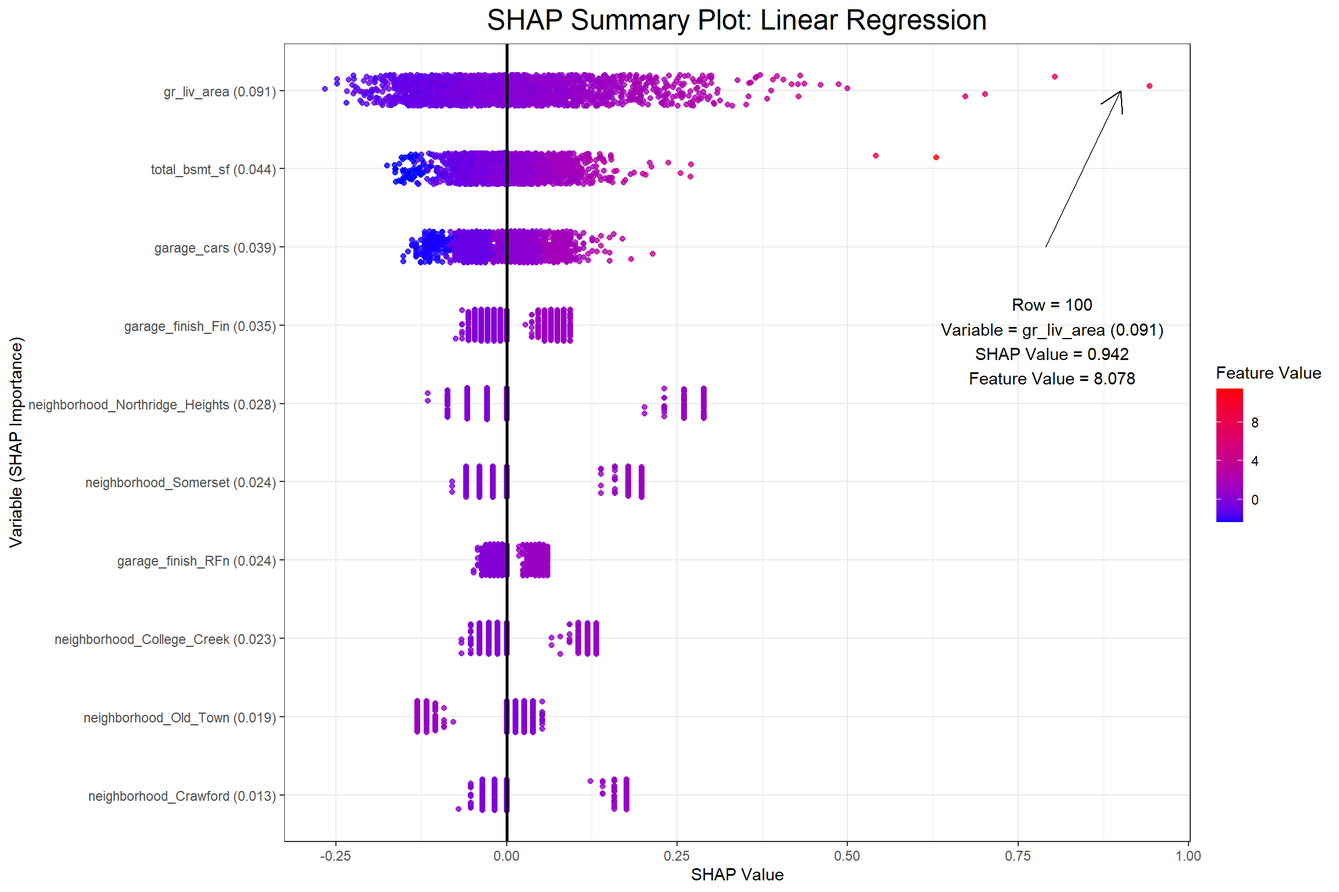
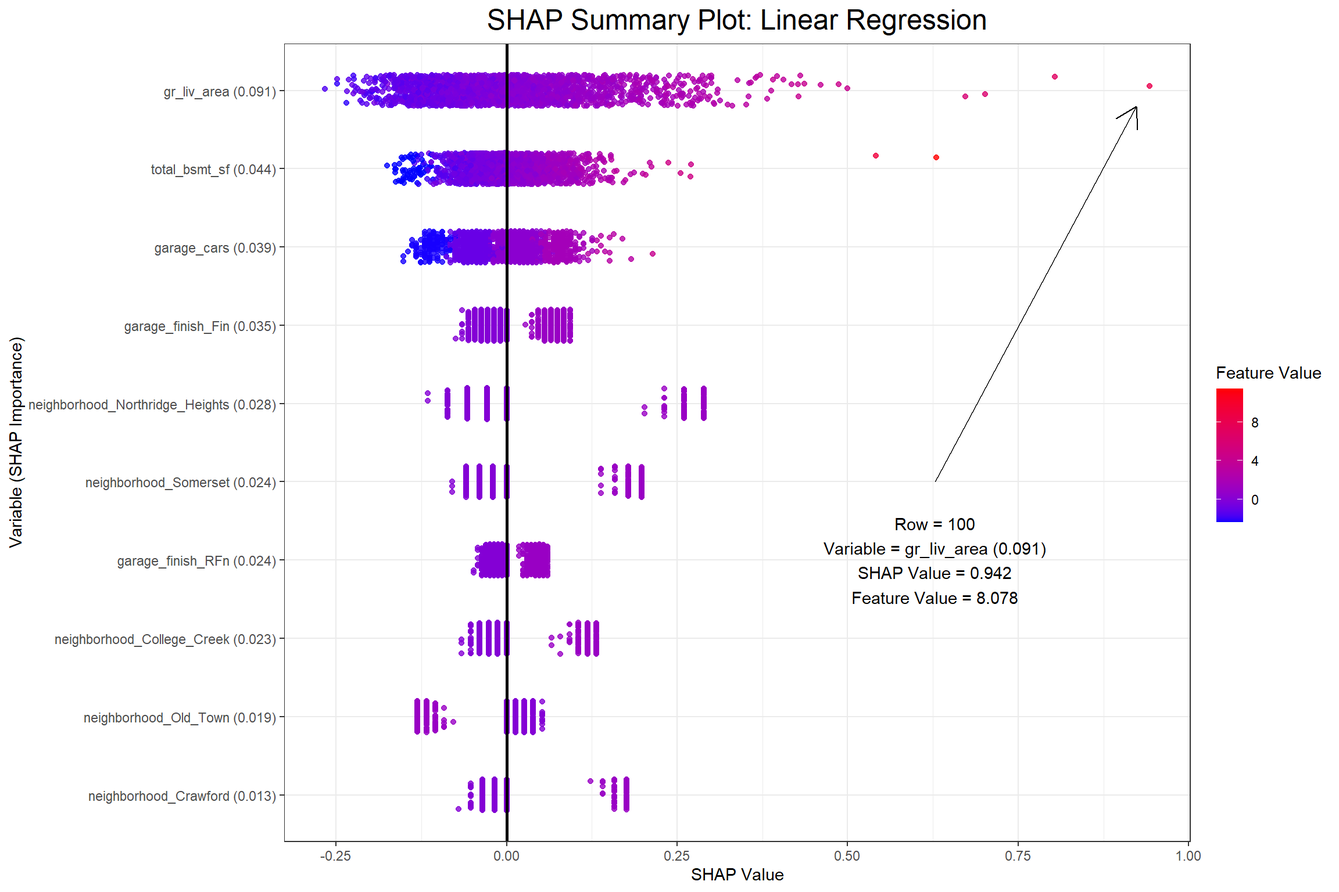
Built site for gh-pages

Changed region(s): [[0.625, 0.5625, 0.7812, 0.6875], [0.7188, 0.3125, 0.875, 0.4375]]

diff --git a/posts/20210829-open-blackbox-tidy/open-blackbox-tidy.html b/posts/20210829-open-blackbox-tidy/open-blackbox-tidy.html
@@ -927,25 +927,36 @@ pre > code.sourceCode > span > a:first-child::before { text-decoration: underlin
 <div class="cell">
 <details class="code-fold">
 <summary>Code</summary>
-<div class="code-copy-outer-scaffold"><div class="sourceCode cell-code" id="cb22"><pre class="sourceCode numberSource r number-lines code-with-copy"><code class="sourceCode r"><span id="cb22-1"><a href="#cb22-1"></a><span class="co"># Generate the SHAP summary plot with an annotation for the outermost point</span></span>
-<span id="cb22-2"><a href="#cb22-2"></a><span class="fu">set.seed</span>(<span class="dv">23</span>)</span>
-<span id="cb22-3"><a href="#cb22-3"></a>shap_summary_plots<span class="sc">$</span>xgb <span class="sc">+</span> </span>
-<span id="cb22-4"><a href="#cb22-4"></a>  <span class="fu">annotate</span>(</span>
-<span id="cb22-5"><a href="#cb22-5"></a>    <span class="at">geom =</span> <span class="st">"segment"</span>,</span>
-<span id="cb22-6"><a href="#cb22-6"></a>    <span class="at">arrow =</span> <span class="fu">arrow</span>(<span class="at">length =</span> <span class="fu">unit</span>(<span class="fl">0.03</span>, <span class="st">"npc"</span>)),</span>
-<span id="cb22-7"><a href="#cb22-7"></a>    <span class="at">color =</span> <span class="st">"black"</span>,</span>
-<span id="cb22-8"><a href="#cb22-8"></a>    <span class="at">x =</span> <span class="fl">0.15</span>,</span>
-<span id="cb22-9"><a href="#cb22-9"></a>    <span class="at">xend =</span> <span class="fl">0.17</span>,</span>
-<span id="cb22-10"><a href="#cb22-10"></a>    <span class="at">y =</span> <span class="fl">6.2</span>,</span>
-<span id="cb22-11"><a href="#cb22-11"></a>    <span class="at">yend =</span> <span class="fl">9.8</span></span>
-<span id="cb22-12"><a href="#cb22-12"></a>  ) <span class="sc">+</span></span>
-<span id="cb22-13"><a href="#cb22-13"></a>  <span class="fu">annotate</span>(</span>
-<span id="cb22-14"><a href="#cb22-14"></a>    <span class="at">geom =</span> <span class="st">"text"</span>, </span>
-<span id="cb22-15"><a href="#cb22-15"></a>    <span class="at">x =</span> <span class="fl">0.15</span>, </span>
-<span id="cb22-16"><a href="#cb22-16"></a>    <span class="at">y =</span> <span class="dv">5</span>,</span>
-<span id="cb22-17"><a href="#cb22-17"></a>    <span class="at">label =</span> point_annotation_xgb, </span>
-<span id="cb22-18"><a href="#cb22-18"></a>    <span class="at">hjust =</span> <span class="st">"center"</span></span>
-<span id="cb22-19"><a href="#cb22-19"></a>  )</span></code></pre></div><button title="Copy to Clipboard" class="code-copy-button"><i class="bi"></i></button></div>
+<div class="code-copy-outer-scaffold"><div class="sourceCode cell-code" id="cb22"><pre class="sourceCode numberSource r number-lines code-with-copy"><code class="sourceCode r"><span id="cb22-1"><a href="#cb22-1"></a><span class="co"># Get the maximum of the x_summary</span></span>
+<span id="cb22-2"><a href="#cb22-2"></a>point_x_lim_max <span class="ot">&lt;-</span> shap_summary_plots <span class="sc">|&gt;</span></span>
+<span id="cb22-3"><a href="#cb22-3"></a>  <span class="fu">map</span>(</span>
+<span id="cb22-4"><a href="#cb22-4"></a>    \(x) {</span>
+<span id="cb22-5"><a href="#cb22-5"></a>      <span class="fu">ggplot_build</span>(x) <span class="sc">|&gt;</span></span>
+<span id="cb22-6"><a href="#cb22-6"></a>        <span class="fu">pluck</span>(<span class="st">"layout"</span>, <span class="st">"panel_scales_x"</span>, <span class="dv">1</span>) <span class="sc">|&gt;</span></span>
+<span id="cb22-7"><a href="#cb22-7"></a>        (\(x) x<span class="sc">$</span><span class="fu">get_limits</span>()[<span class="dv">2</span>])()</span>
+<span id="cb22-8"><a href="#cb22-8"></a>    }</span>
+<span id="cb22-9"><a href="#cb22-9"></a>  )</span>
+<span id="cb22-10"><a href="#cb22-10"></a>  </span>
+<span id="cb22-11"><a href="#cb22-11"></a></span>
+<span id="cb22-12"><a href="#cb22-12"></a><span class="co"># Generate the SHAP summary plot with an annotation for the outermost point</span></span>
+<span id="cb22-13"><a href="#cb22-13"></a><span class="fu">set.seed</span>(<span class="dv">23</span>)</span>
+<span id="cb22-14"><a href="#cb22-14"></a>shap_summary_plots<span class="sc">$</span>xgb <span class="sc">+</span> </span>
+<span id="cb22-15"><a href="#cb22-15"></a>  <span class="fu">annotate</span>(</span>
+<span id="cb22-16"><a href="#cb22-16"></a>    <span class="at">geom =</span> <span class="st">"segment"</span>,</span>
+<span id="cb22-17"><a href="#cb22-17"></a>    <span class="at">arrow =</span> <span class="fu">arrow</span>(<span class="at">length =</span> <span class="fu">unit</span>(<span class="fl">0.03</span>, <span class="st">"npc"</span>)),</span>
+<span id="cb22-18"><a href="#cb22-18"></a>    <span class="at">color =</span> <span class="st">"black"</span>,</span>
+<span id="cb22-19"><a href="#cb22-19"></a>    <span class="at">x =</span> point_x_lim_max<span class="sc">$</span>xgb <span class="sc">/</span> <span class="dv">2</span>,</span>
+<span id="cb22-20"><a href="#cb22-20"></a>    <span class="at">xend =</span> point_dat_xgb<span class="sc">$</span>shap_value <span class="sc">*</span> .<span class="dv">98</span>,</span>
+<span id="cb22-21"><a href="#cb22-21"></a>    <span class="at">y =</span> <span class="dv">6</span>,</span>
+<span id="cb22-22"><a href="#cb22-22"></a>    <span class="at">yend =</span> <span class="fl">9.8</span></span>
+<span id="cb22-23"><a href="#cb22-23"></a>  ) <span class="sc">+</span></span>
+<span id="cb22-24"><a href="#cb22-24"></a>  <span class="fu">annotate</span>(</span>
+<span id="cb22-25"><a href="#cb22-25"></a>    <span class="at">geom =</span> <span class="st">"text"</span>, </span>
+<span id="cb22-26"><a href="#cb22-26"></a>    <span class="at">x =</span> point_x_lim_max<span class="sc">$</span>xgb <span class="sc">/</span> <span class="dv">2</span>, </span>
+<span id="cb22-27"><a href="#cb22-27"></a>    <span class="at">y =</span> <span class="dv">5</span>,</span>
+<span id="cb22-28"><a href="#cb22-28"></a>    <span class="at">label =</span> point_annotation_xgb, </span>
+<span id="cb22-29"><a href="#cb22-29"></a>    <span class="at">hjust =</span> <span class="st">"center"</span></span>
+<span id="cb22-30"><a href="#cb22-30"></a>  )</span></code></pre></div><button title="Copy to Clipboard" class="code-copy-button"><i class="bi"></i></button></div>
 </details>
 <div class="cell-output-display">
 <div>
@@ -961,17 +972,22 @@ pre > code.sourceCode > span > a:first-child::before { text-decoration: underlin
 <div class="code-copy-outer-scaffold"><div class="sourceCode cell-code" id="cb23"><pre class="sourceCode numberSource r number-lines code-with-copy"><code class="sourceCode r"><span id="cb23-1"><a href="#cb23-1"></a><span class="co"># Generate the SHAP summary plot with an annotation for the outermost point</span></span>
 <span id="cb23-2"><a href="#cb23-2"></a><span class="fu">set.seed</span>(<span class="dv">23</span>)</span>
 <span id="cb23-3"><a href="#cb23-3"></a>shap_summary_plots<span class="sc">$</span>lm <span class="sc">+</span> </span>
-<span id="cb23-4"><a href="#cb23-4"></a>  <span class="fu">geom_segment</span>(</span>
-<span id="cb23-5"><a href="#cb23-5"></a>    <span class="fu">aes</span>(<span class="at">x =</span> <span class="fl">0.79</span>, <span class="at">xend =</span> <span class="fl">0.9</span>, <span class="at">y =</span> <span class="dv">8</span>, <span class="at">yend =</span> <span class="dv">10</span>), </span>
-<span id="cb23-6"><a href="#cb23-6"></a>    <span class="at">color =</span> <span class="st">"black"</span>,</span>
-<span id="cb23-7"><a href="#cb23-7"></a>    <span class="at">arrow =</span> <span class="fu">arrow</span>(<span class="at">length =</span> <span class="fu">unit</span>(<span class="fl">0.03</span>, <span class="st">"npc"</span>))</span>
-<span id="cb23-8"><a href="#cb23-8"></a>  ) <span class="sc">+</span></span>
-<span id="cb23-9"><a href="#cb23-9"></a>  <span class="fu">annotate</span>(</span>
-<span id="cb23-10"><a href="#cb23-10"></a>    <span class="at">geom =</span> <span class="st">"text"</span>, </span>
-<span id="cb23-11"><a href="#cb23-11"></a>    <span class="at">x =</span> <span class="fl">0.8</span>, </span>
-<span id="cb23-12"><a href="#cb23-12"></a>    <span class="at">y =</span> <span class="fl">6.8</span>, <span class="at">label =</span> point_annotation_lm, </span>
-<span id="cb23-13"><a href="#cb23-13"></a>    <span class="at">hjust =</span> <span class="st">"center"</span></span>
-<span id="cb23-14"><a href="#cb23-14"></a>  )</span></code></pre></div><button title="Copy to Clipboard" class="code-copy-button"><i class="bi"></i></button></div>
+<span id="cb23-4"><a href="#cb23-4"></a>  <span class="fu">annotate</span>(</span>
+<span id="cb23-5"><a href="#cb23-5"></a>    <span class="at">geom =</span> <span class="st">"segment"</span>,</span>
+<span id="cb23-6"><a href="#cb23-6"></a>    <span class="at">arrow =</span> <span class="fu">arrow</span>(<span class="at">length =</span> <span class="fu">unit</span>(<span class="fl">0.03</span>, <span class="st">"npc"</span>)),</span>
+<span id="cb23-7"><a href="#cb23-7"></a>    <span class="at">color =</span> <span class="st">"black"</span>,</span>
+<span id="cb23-8"><a href="#cb23-8"></a>    <span class="at">x =</span> point_x_lim_max<span class="sc">$</span>lm <span class="sc">*</span> (<span class="dv">2</span><span class="sc">/</span><span class="dv">3</span>),</span>
+<span id="cb23-9"><a href="#cb23-9"></a>    <span class="at">xend =</span> point_dat_lm<span class="sc">$</span>shap_value <span class="sc">*</span> .<span class="dv">98</span>,</span>
+<span id="cb23-10"><a href="#cb23-10"></a>    <span class="at">y =</span> <span class="dv">5</span>,</span>
+<span id="cb23-11"><a href="#cb23-11"></a>    <span class="at">yend =</span> <span class="fl">9.8</span></span>
+<span id="cb23-12"><a href="#cb23-12"></a>  ) <span class="sc">+</span></span>
+<span id="cb23-13"><a href="#cb23-13"></a>  <span class="fu">annotate</span>(</span>
+<span id="cb23-14"><a href="#cb23-14"></a>    <span class="at">geom =</span> <span class="st">"text"</span>, </span>
+<span id="cb23-15"><a href="#cb23-15"></a>    <span class="at">x =</span> point_x_lim_max<span class="sc">$</span>lm <span class="sc">*</span> (<span class="dv">2</span><span class="sc">/</span><span class="dv">3</span>), </span>
+<span id="cb23-16"><a href="#cb23-16"></a>    <span class="at">y =</span> <span class="dv">4</span>,</span>
+<span id="cb23-17"><a href="#cb23-17"></a>    <span class="at">label =</span> point_annotation_lm, </span>
+<span id="cb23-18"><a href="#cb23-18"></a>    <span class="at">hjust =</span> <span class="st">"center"</span></span>
+<span id="cb23-19"><a href="#cb23-19"></a>  )</span></code></pre></div><button title="Copy to Clipboard" class="code-copy-button"><i class="bi"></i></button></div>
 </details>
 <div class="cell-output-display">
 <div>
@@ -2153,98 +2169,114 @@ pre > code.sourceCode > span > a:first-child::before { text-decoration: underlin
 <span id="cb29-601"><a href="#cb29-601"></a><span class="in">```{r}</span></span>
 <span id="cb29-602"><a href="#cb29-602"></a><span class="co">#| label: plot-shap-summary-xgb</span></span>
 <span id="cb29-603"><a href="#cb29-603"></a></span>
-<span id="cb29-604"><a href="#cb29-604"></a><span class="co"># Generate the SHAP summary plot with an annotation for the outermost point</span></span>
-<span id="cb29-605"><a href="#cb29-605"></a><span class="fu">set.seed</span>(<span class="dv">23</span>)</span>
-<span id="cb29-606"><a href="#cb29-606"></a>shap_summary_plots<span class="sc">$</span>xgb <span class="sc">+</span> </span>
-<span id="cb29-607"><a href="#cb29-607"></a>  <span class="fu">annotate</span>(</span>
-<span id="cb29-608"><a href="#cb29-608"></a>    <span class="at">geom =</span> <span class="st">"segment"</span>,</span>
-<span id="cb29-609"><a href="#cb29-609"></a>    <span class="at">arrow =</span> <span class="fu">arrow</span>(<span class="at">length =</span> <span class="fu">unit</span>(<span class="fl">0.03</span>, <span class="st">"npc"</span>)),</span>
-<span id="cb29-610"><a href="#cb29-610"></a>    <span class="at">color =</span> <span class="st">"black"</span>,</span>
-<span id="cb29-611"><a href="#cb29-611"></a>    <span class="at">x =</span> <span class="fl">0.15</span>,</span>
-<span id="cb29-612"><a href="#cb29-612"></a>    <span class="at">xend =</span> <span class="fl">0.17</span>,</span>
-<span id="cb29-613"><a href="#cb29-613"></a>    <span class="at">y =</span> <span class="fl">6.2</span>,</span>
-<span id="cb29-614"><a href="#cb29-614"></a>    <span class="at">yend =</span> <span class="fl">9.8</span></span>
-<span id="cb29-615"><a href="#cb29-615"></a>  ) <span class="sc">+</span></span>
-<span id="cb29-616"><a href="#cb29-616"></a>  <span class="fu">annotate</span>(</span>
-<span id="cb29-617"><a href="#cb29-617"></a>    <span class="at">geom =</span> <span class="st">"text"</span>, </span>
-<span id="cb29-618"><a href="#cb29-618"></a>    <span class="at">x =</span> <span class="fl">0.15</span>, </span>
-<span id="cb29-619"><a href="#cb29-619"></a>    <span class="at">y =</span> <span class="dv">5</span>,</span>
-<span id="cb29-620"><a href="#cb29-620"></a>    <span class="at">label =</span> point_annotation_xgb, </span>
-<span id="cb29-621"><a href="#cb29-621"></a>    <span class="at">hjust =</span> <span class="st">"center"</span></span>
-<span id="cb29-622"><a href="#cb29-622"></a>  )</span>
-<span id="cb29-623"><a href="#cb29-623"></a></span>
-<span id="cb29-624"><a href="#cb29-624"></a><span class="in">```</span></span>
-<span id="cb29-625"><a href="#cb29-625"></a></span>
-<span id="cb29-628"><a href="#cb29-628"></a><span class="in">```{r}</span></span>
-<span id="cb29-629"><a href="#cb29-629"></a><span class="co">#| label: plot-shap-summary-lm</span></span>
-<span id="cb29-630"><a href="#cb29-630"></a></span>
-<span id="cb29-631"><a href="#cb29-631"></a><span class="co"># Generate the SHAP summary plot with an annotation for the outermost point</span></span>
-<span id="cb29-632"><a href="#cb29-632"></a><span class="fu">set.seed</span>(<span class="dv">23</span>)</span>
-<span id="cb29-633"><a href="#cb29-633"></a>shap_summary_plots<span class="sc">$</span>lm <span class="sc">+</span> </span>
-<span id="cb29-634"><a href="#cb29-634"></a>  <span class="fu">geom_segment</span>(</span>
-<span id="cb29-635"><a href="#cb29-635"></a>    <span class="fu">aes</span>(<span class="at">x =</span> <span class="fl">0.79</span>, <span class="at">xend =</span> <span class="fl">0.9</span>, <span class="at">y =</span> <span class="dv">8</span>, <span class="at">yend =</span> <span class="dv">10</span>), </span>
-<span id="cb29-636"><a href="#cb29-636"></a>    <span class="at">color =</span> <span class="st">"black"</span>,</span>
-<span id="cb29-637"><a href="#cb29-637"></a>    <span class="at">arrow =</span> <span class="fu">arrow</span>(<span class="at">length =</span> <span class="fu">unit</span>(<span class="fl">0.03</span>, <span class="st">"npc"</span>))</span>
-<span id="cb29-638"><a href="#cb29-638"></a>  ) <span class="sc">+</span></span>
-<span id="cb29-639"><a href="#cb29-639"></a>  <span class="fu">annotate</span>(</span>
-<span id="cb29-640"><a href="#cb29-640"></a>    <span class="at">geom =</span> <span class="st">"text"</span>, </span>
-<span id="cb29-641"><a href="#cb29-641"></a>    <span class="at">x =</span> <span class="fl">0.8</span>, </span>
-<span id="cb29-642"><a href="#cb29-642"></a>    <span class="at">y =</span> <span class="fl">6.8</span>, <span class="at">label =</span> point_annotation_lm, </span>
-<span id="cb29-643"><a href="#cb29-643"></a>    <span class="at">hjust =</span> <span class="st">"center"</span></span>
-<span id="cb29-644"><a href="#cb29-644"></a>  )</span>
-<span id="cb29-645"><a href="#cb29-645"></a></span>
-<span id="cb29-646"><a href="#cb29-646"></a><span class="in">```</span></span>
-<span id="cb29-647"><a href="#cb29-647"></a></span>
-<span id="cb29-648"><a href="#cb29-648"></a>The first plot above shows that row <span class="in">`r point_dat_xgb |&gt; pull(id)`</span> has a positive SHAP value of <span class="in">`r point_dat_xgb |&gt; pull(shap_value)`</span> for the <span class="in">`r point_dat_xgb |&gt; pull(variable)`</span> in the XGB model, which had an above average value of <span class="in">`r point_dat_xgb |&gt; pull(feature_value)`</span> in the training data. When considering all the observations collectively the feature value is ideally positively related with the SHAP value. Next I'll look at partial dependence plots to show the effect that the <span class="in">`gr_liv_area`</span> has on <span class="in">`sale_price`</span> according to each model.</span>
-<span id="cb29-649"><a href="#cb29-649"></a></span>
-<span id="cb29-652"><a href="#cb29-652"></a><span class="in">```{r}</span></span>
-<span id="cb29-653"><a href="#cb29-653"></a><span class="co">#| label: pdp-plots</span></span>
-<span id="cb29-654"><a href="#cb29-654"></a></span>
-<span id="cb29-655"><a href="#cb29-655"></a>gr_liv_area_pdp <span class="ot">&lt;-</span> final_wflows_fit <span class="sc">|&gt;</span></span>
-<span id="cb29-656"><a href="#cb29-656"></a>  <span class="fu">map2</span>(<span class="fu">c</span>(<span class="st">"XG Boost"</span>, <span class="st">"Linear Regression"</span>), plot_pdp, <span class="at">pred_var =</span> gr_liv_area)</span>
-<span id="cb29-657"><a href="#cb29-657"></a></span>
-<span id="cb29-658"><a href="#cb29-658"></a>gr_liv_area_pdp<span class="sc">$</span>xgb</span>
-<span id="cb29-659"><a href="#cb29-659"></a>gr_liv_area_pdp<span class="sc">$</span>lm</span>
-<span id="cb29-660"><a href="#cb29-660"></a></span>
-<span id="cb29-661"><a href="#cb29-661"></a><span class="in">```</span></span>
-<span id="cb29-662"><a href="#cb29-662"></a></span>
-<span id="cb29-663"><a href="#cb29-663"></a>According to both models the <span class="in">`gr_liv_area`</span> variable positively effects the predicted sale price of a home in the training data, which seems consistent with general knowledge about home prices given that <span class="in">`gr_liv_area`</span> is a measure of the above ground living area (more commonly known as "square footage"). It's important to note, however, that, unlike the coefficient in a regression model, one should not make inferences from a partial dependency beyond the dimensions of the training data. A partial dependency plot is meant only to provide an overview on the broad relationship between an explanatory variable and the target variable.</span>
-<span id="cb29-664"><a href="#cb29-664"></a></span>
-<span id="cb29-665"><a href="#cb29-665"></a>Lastly, I can look at how each feature affects a particular observation with a contribution plot. I'll consider the house observed in row 2049 of the training data set.</span>
-<span id="cb29-666"><a href="#cb29-666"></a></span>
-<span id="cb29-669"><a href="#cb29-669"></a><span class="in">```{r}</span></span>
-<span id="cb29-670"><a href="#cb29-670"></a><span class="co">#| label: save-contrib-plots</span></span>
-<span id="cb29-671"><a href="#cb29-671"></a></span>
-<span id="cb29-672"><a href="#cb29-672"></a>obs_2409_contrib <span class="ot">&lt;-</span> shap <span class="sc">|&gt;</span></span>
-<span id="cb29-673"><a href="#cb29-673"></a>  <span class="fu">map2</span>(</span>
-<span id="cb29-674"><a href="#cb29-674"></a>    <span class="fu">c</span>(<span class="st">"XG Boost"</span>, <span class="st">"Linear Regression"</span>), </span>
-<span id="cb29-675"><a href="#cb29-675"></a>    get_contributions, </span>
-<span id="cb29-676"><a href="#cb29-676"></a>    <span class="at">rnum =</span> <span class="dv">2049</span>, </span>
-<span id="cb29-677"><a href="#cb29-677"></a>    <span class="at">nfeat =</span> <span class="dv">15</span> </span>
-<span id="cb29-678"><a href="#cb29-678"></a>  )</span>
-<span id="cb29-679"><a href="#cb29-679"></a></span>
+<span id="cb29-604"><a href="#cb29-604"></a><span class="co"># Get the maximum of the x_summary</span></span>
+<span id="cb29-605"><a href="#cb29-605"></a>point_x_lim_max <span class="ot">&lt;-</span> shap_summary_plots <span class="sc">|&gt;</span></span>
+<span id="cb29-606"><a href="#cb29-606"></a>  <span class="fu">map</span>(</span>
+<span id="cb29-607"><a href="#cb29-607"></a>    \(x) {</span>
+<span id="cb29-608"><a href="#cb29-608"></a>      <span class="fu">ggplot_build</span>(x) <span class="sc">|&gt;</span></span>
+<span id="cb29-609"><a href="#cb29-609"></a>        <span class="fu">pluck</span>(<span class="st">"layout"</span>, <span class="st">"panel_scales_x"</span>, <span class="dv">1</span>) <span class="sc">|&gt;</span></span>
+<span id="cb29-610"><a href="#cb29-610"></a>        (\(x) x<span class="sc">$</span><span class="fu">get_limits</span>()[<span class="dv">2</span>])()</span>
+<span id="cb29-611"><a href="#cb29-611"></a>    }</span>
+<span id="cb29-612"><a href="#cb29-612"></a>  )</span>
+<span id="cb29-613"><a href="#cb29-613"></a>  </span>
+<span id="cb29-614"><a href="#cb29-614"></a></span>
+<span id="cb29-615"><a href="#cb29-615"></a><span class="co"># Generate the SHAP summary plot with an annotation for the outermost point</span></span>
+<span id="cb29-616"><a href="#cb29-616"></a><span class="fu">set.seed</span>(<span class="dv">23</span>)</span>
+<span id="cb29-617"><a href="#cb29-617"></a>shap_summary_plots<span class="sc">$</span>xgb <span class="sc">+</span> </span>
+<span id="cb29-618"><a href="#cb29-618"></a>  <span class="fu">annotate</span>(</span>
+<span id="cb29-619"><a href="#cb29-619"></a>    <span class="at">geom =</span> <span class="st">"segment"</span>,</span>
+<span id="cb29-620"><a href="#cb29-620"></a>    <span class="at">arrow =</span> <span class="fu">arrow</span>(<span class="at">length =</span> <span class="fu">unit</span>(<span class="fl">0.03</span>, <span class="st">"npc"</span>)),</span>
+<span id="cb29-621"><a href="#cb29-621"></a>    <span class="at">color =</span> <span class="st">"black"</span>,</span>
+<span id="cb29-622"><a href="#cb29-622"></a>    <span class="at">x =</span> point_x_lim_max<span class="sc">$</span>xgb <span class="sc">/</span> <span class="dv">2</span>,</span>
+<span id="cb29-623"><a href="#cb29-623"></a>    <span class="at">xend =</span> point_dat_xgb<span class="sc">$</span>shap_value <span class="sc">*</span> .<span class="dv">98</span>,</span>
+<span id="cb29-624"><a href="#cb29-624"></a>    <span class="at">y =</span> <span class="dv">6</span>,</span>
+<span id="cb29-625"><a href="#cb29-625"></a>    <span class="at">yend =</span> <span class="fl">9.8</span></span>
+<span id="cb29-626"><a href="#cb29-626"></a>  ) <span class="sc">+</span></span>
+<span id="cb29-627"><a href="#cb29-627"></a>  <span class="fu">annotate</span>(</span>
+<span id="cb29-628"><a href="#cb29-628"></a>    <span class="at">geom =</span> <span class="st">"text"</span>, </span>
+<span id="cb29-629"><a href="#cb29-629"></a>    <span class="at">x =</span> point_x_lim_max<span class="sc">$</span>xgb <span class="sc">/</span> <span class="dv">2</span>, </span>
+<span id="cb29-630"><a href="#cb29-630"></a>    <span class="at">y =</span> <span class="dv">5</span>,</span>
+<span id="cb29-631"><a href="#cb29-631"></a>    <span class="at">label =</span> point_annotation_xgb, </span>
+<span id="cb29-632"><a href="#cb29-632"></a>    <span class="at">hjust =</span> <span class="st">"center"</span></span>
+<span id="cb29-633"><a href="#cb29-633"></a>  )</span>
+<span id="cb29-634"><a href="#cb29-634"></a></span>
+<span id="cb29-635"><a href="#cb29-635"></a><span class="in">```</span></span>
+<span id="cb29-636"><a href="#cb29-636"></a></span>
+<span id="cb29-639"><a href="#cb29-639"></a><span class="in">```{r}</span></span>
+<span id="cb29-640"><a href="#cb29-640"></a><span class="co">#| label: plot-shap-summary-lm</span></span>
+<span id="cb29-641"><a href="#cb29-641"></a></span>
+<span id="cb29-642"><a href="#cb29-642"></a><span class="co"># Generate the SHAP summary plot with an annotation for the outermost point</span></span>
+<span id="cb29-643"><a href="#cb29-643"></a><span class="fu">set.seed</span>(<span class="dv">23</span>)</span>
+<span id="cb29-644"><a href="#cb29-644"></a>shap_summary_plots<span class="sc">$</span>lm <span class="sc">+</span> </span>
+<span id="cb29-645"><a href="#cb29-645"></a>  <span class="fu">annotate</span>(</span>
+<span id="cb29-646"><a href="#cb29-646"></a>    <span class="at">geom =</span> <span class="st">"segment"</span>,</span>
+<span id="cb29-647"><a href="#cb29-647"></a>    <span class="at">arrow =</span> <span class="fu">arrow</span>(<span class="at">length =</span> <span class="fu">unit</span>(<span class="fl">0.03</span>, <span class="st">"npc"</span>)),</span>
+<span id="cb29-648"><a href="#cb29-648"></a>    <span class="at">color =</span> <span class="st">"black"</span>,</span>
+<span id="cb29-649"><a href="#cb29-649"></a>    <span class="at">x =</span> point_x_lim_max<span class="sc">$</span>lm <span class="sc">*</span> (<span class="dv">2</span><span class="sc">/</span><span class="dv">3</span>),</span>
+<span id="cb29-650"><a href="#cb29-650"></a>    <span class="at">xend =</span> point_dat_lm<span class="sc">$</span>shap_value <span class="sc">*</span> .<span class="dv">98</span>,</span>
+<span id="cb29-651"><a href="#cb29-651"></a>    <span class="at">y =</span> <span class="dv">5</span>,</span>
+<span id="cb29-652"><a href="#cb29-652"></a>    <span class="at">yend =</span> <span class="fl">9.8</span></span>
+<span id="cb29-653"><a href="#cb29-653"></a>  ) <span class="sc">+</span></span>
+<span id="cb29-654"><a href="#cb29-654"></a>  <span class="fu">annotate</span>(</span>
+<span id="cb29-655"><a href="#cb29-655"></a>    <span class="at">geom =</span> <span class="st">"text"</span>, </span>
+<span id="cb29-656"><a href="#cb29-656"></a>    <span class="at">x =</span> point_x_lim_max<span class="sc">$</span>lm <span class="sc">*</span> (<span class="dv">2</span><span class="sc">/</span><span class="dv">3</span>), </span>
+<span id="cb29-657"><a href="#cb29-657"></a>    <span class="at">y =</span> <span class="dv">4</span>,</span>
+<span id="cb29-658"><a href="#cb29-658"></a>    <span class="at">label =</span> point_annotation_lm, </span>
+<span id="cb29-659"><a href="#cb29-659"></a>    <span class="at">hjust =</span> <span class="st">"center"</span></span>
+<span id="cb29-660"><a href="#cb29-660"></a>  )</span>
+<span id="cb29-661"><a href="#cb29-661"></a></span>
+<span id="cb29-662"><a href="#cb29-662"></a><span class="in">```</span></span>
+<span id="cb29-663"><a href="#cb29-663"></a></span>
+<span id="cb29-664"><a href="#cb29-664"></a>The first plot above shows that row <span class="in">`r point_dat_xgb |&gt; pull(id)`</span> has a positive SHAP value of <span class="in">`r point_dat_xgb |&gt; pull(shap_value)`</span> for the <span class="in">`r point_dat_xgb |&gt; pull(variable)`</span> in the XGB model, which had an above average value of <span class="in">`r point_dat_xgb |&gt; pull(feature_value)`</span> in the training data. When considering all the observations collectively the feature value is ideally positively related with the SHAP value. Next I'll look at partial dependence plots to show the effect that the <span class="in">`gr_liv_area`</span> has on <span class="in">`sale_price`</span> according to each model.</span>
+<span id="cb29-665"><a href="#cb29-665"></a></span>
+<span id="cb29-668"><a href="#cb29-668"></a><span class="in">```{r}</span></span>
+<span id="cb29-669"><a href="#cb29-669"></a><span class="co">#| label: pdp-plots</span></span>
+<span id="cb29-670"><a href="#cb29-670"></a></span>
+<span id="cb29-671"><a href="#cb29-671"></a>gr_liv_area_pdp <span class="ot">&lt;-</span> final_wflows_fit <span class="sc">|&gt;</span></span>
+<span id="cb29-672"><a href="#cb29-672"></a>  <span class="fu">map2</span>(<span class="fu">c</span>(<span class="st">"XG Boost"</span>, <span class="st">"Linear Regression"</span>), plot_pdp, <span class="at">pred_var =</span> gr_liv_area)</span>
+<span id="cb29-673"><a href="#cb29-673"></a></span>
+<span id="cb29-674"><a href="#cb29-674"></a>gr_liv_area_pdp<span class="sc">$</span>xgb</span>
+<span id="cb29-675"><a href="#cb29-675"></a>gr_liv_area_pdp<span class="sc">$</span>lm</span>
+<span id="cb29-676"><a href="#cb29-676"></a></span>
+<span id="cb29-677"><a href="#cb29-677"></a><span class="in">```</span></span>
+<span id="cb29-678"><a href="#cb29-678"></a></span>
+<span id="cb29-679"><a href="#cb29-679"></a>According to both models the <span class="in">`gr_liv_area`</span> variable positively effects the predicted sale price of a home in the training data, which seems consistent with general knowledge about home prices given that <span class="in">`gr_liv_area`</span> is a measure of the above ground living area (more commonly known as "square footage"). It's important to note, however, that, unlike the coefficient in a regression model, one should not make inferences from a partial dependency beyond the dimensions of the training data. A partial dependency plot is meant only to provide an overview on the broad relationship between an explanatory variable and the target variable.</span>
 <span id="cb29-680"><a href="#cb29-680"></a></span>
-<span id="cb29-681"><a href="#cb29-681"></a><span class="in">```</span></span>
+<span id="cb29-681"><a href="#cb29-681"></a>Lastly, I can look at how each feature affects a particular observation with a contribution plot. I'll consider the house observed in row 2049 of the training data set.</span>
 <span id="cb29-682"><a href="#cb29-682"></a></span>
 <span id="cb29-685"><a href="#cb29-685"></a><span class="in">```{r}</span></span>
-<span id="cb29-686"><a href="#cb29-686"></a><span class="co">#| label: contrib-xgb</span></span>
+<span id="cb29-686"><a href="#cb29-686"></a><span class="co">#| label: save-contrib-plots</span></span>
 <span id="cb29-687"><a href="#cb29-687"></a></span>
-<span id="cb29-688"><a href="#cb29-688"></a>obs_2409_contrib<span class="sc">$</span>xgb<span class="sc">$</span>contrib_plot</span>
-<span id="cb29-689"><a href="#cb29-689"></a></span>
-<span id="cb29-690"><a href="#cb29-690"></a><span class="in">```</span></span>
-<span id="cb29-691"><a href="#cb29-691"></a></span>
-<span id="cb29-694"><a href="#cb29-694"></a><span class="in">```{r}</span></span>
-<span id="cb29-695"><a href="#cb29-695"></a><span class="co">#| label: contrib-lm</span></span>
+<span id="cb29-688"><a href="#cb29-688"></a>obs_2409_contrib <span class="ot">&lt;-</span> shap <span class="sc">|&gt;</span></span>
+<span id="cb29-689"><a href="#cb29-689"></a>  <span class="fu">map2</span>(</span>
+<span id="cb29-690"><a href="#cb29-690"></a>    <span class="fu">c</span>(<span class="st">"XG Boost"</span>, <span class="st">"Linear Regression"</span>), </span>
+<span id="cb29-691"><a href="#cb29-691"></a>    get_contributions, </span>
+<span id="cb29-692"><a href="#cb29-692"></a>    <span class="at">rnum =</span> <span class="dv">2049</span>, </span>
+<span id="cb29-693"><a href="#cb29-693"></a>    <span class="at">nfeat =</span> <span class="dv">15</span> </span>
+<span id="cb29-694"><a href="#cb29-694"></a>  )</span>
+<span id="cb29-695"><a href="#cb29-695"></a></span>
 <span id="cb29-696"><a href="#cb29-696"></a></span>
-<span id="cb29-697"><a href="#cb29-697"></a>obs_2409_contrib<span class="sc">$</span>lm<span class="sc">$</span>contrib_plot</span>
+<span id="cb29-697"><a href="#cb29-697"></a><span class="in">```</span></span>
 <span id="cb29-698"><a href="#cb29-698"></a></span>
-<span id="cb29-699"><a href="#cb29-699"></a><span class="in">```</span></span>
-<span id="cb29-700"><a href="#cb29-700"></a></span>
-<span id="cb29-701"><a href="#cb29-701"></a>The above XG Boost contribution plot shows that <span class="in">`total_bsmt_sf`</span> had the largest positive effect on the predicted sale price of the sale in observation 2049 and having <span class="in">`garage_finish_Unf`</span> (having an unfinished garage) had the largest negative effect. The Linear Regression contribution plot shows that <span class="in">`gr_liv_area`</span> had the largest positive effect and <span class="in">`neighborhood_Brookside`</span> had the largest negative effect on the predicted sale price. However, it's interesting to note that <span class="in">`garage_finish_Fin`</span>, the opposite of <span class="in">`garage_finish_Unf`</span>, had a negative effect in the Linear Regression.</span>
-<span id="cb29-702"><a href="#cb29-702"></a></span>
-<span id="cb29-703"><a href="#cb29-703"></a><span class="fu">## Final Thoughts</span></span>
-<span id="cb29-704"><a href="#cb29-704"></a></span>
-<span id="cb29-705"><a href="#cb29-705"></a>While these methods of looking into machine learning algorithms are not designed for inference, they do go a long way in helping to elucidate the relationships or patterns that machine learning algorithms find. They help answer the questions about why some predictions come out the way that they do, whether they make sense or not.</span>
+<span id="cb29-701"><a href="#cb29-701"></a><span class="in">```{r}</span></span>
+<span id="cb29-702"><a href="#cb29-702"></a><span class="co">#| label: contrib-xgb</span></span>
+<span id="cb29-703"><a href="#cb29-703"></a></span>
+<span id="cb29-704"><a href="#cb29-704"></a>obs_2409_contrib<span class="sc">$</span>xgb<span class="sc">$</span>contrib_plot</span>
+<span id="cb29-705"><a href="#cb29-705"></a></span>
+<span id="cb29-706"><a href="#cb29-706"></a><span class="in">```</span></span>
+<span id="cb29-707"><a href="#cb29-707"></a></span>
+<span id="cb29-710"><a href="#cb29-710"></a><span class="in">```{r}</span></span>
+<span id="cb29-711"><a href="#cb29-711"></a><span class="co">#| label: contrib-lm</span></span>
+<span id="cb29-712"><a href="#cb29-712"></a></span>
+<span id="cb29-713"><a href="#cb29-713"></a>obs_2409_contrib<span class="sc">$</span>lm<span class="sc">$</span>contrib_plot</span>
+<span id="cb29-714"><a href="#cb29-714"></a></span>
+<span id="cb29-715"><a href="#cb29-715"></a><span class="in">```</span></span>
+<span id="cb29-716"><a href="#cb29-716"></a></span>
+<span id="cb29-717"><a href="#cb29-717"></a>The above XG Boost contribution plot shows that <span class="in">`total_bsmt_sf`</span> had the largest positive effect on the predicted sale price of the sale in observation 2049 and having <span class="in">`garage_finish_Unf`</span> (having an unfinished garage) had the largest negative effect. The Linear Regression contribution plot shows that <span class="in">`gr_liv_area`</span> had the largest positive effect and <span class="in">`neighborhood_Brookside`</span> had the largest negative effect on the predicted sale price. However, it's interesting to note that <span class="in">`garage_finish_Fin`</span>, the opposite of <span class="in">`garage_finish_Unf`</span>, had a negative effect in the Linear Regression.</span>
+<span id="cb29-718"><a href="#cb29-718"></a></span>
+<span id="cb29-719"><a href="#cb29-719"></a><span class="fu">## Final Thoughts</span></span>
+<span id="cb29-720"><a href="#cb29-720"></a></span>
+<span id="cb29-721"><a href="#cb29-721"></a>While these methods of looking into machine learning algorithms are not designed for inference, they do go a long way in helping to elucidate the relationships or patterns that machine learning algorithms find. They help answer the questions about why some predictions come out the way that they do, whether they make sense or not.</span>
 </code></pre></div><button title="Copy to Clipboard" class="code-copy-button" data-in-quarto-modal=""><i class="bi"></i></button></div>
 </div></div></div></div></div>
 </div> <!-- /content -->

diff --git a/posts.html b/posts.html
@@ -580,7 +580,7 @@ Arcenis Rojas
 </a>
 </div>
 </div>
-<div class="quarto-post image-right" data-index="9" data-categories="TWFjaGluZSUyMExlYXJuaW5nJTJDUHJlZGljdGlvbg==" data-listing-date-sort="1630213200000" data-listing-file-modified-sort="1759038075007" data-listing-date-modified-sort="NaN" data-listing-reading-time-sort="18" data-listing-word-count-sort="3458">
+<div class="quarto-post image-right" data-index="9" data-categories="TWFjaGluZSUyMExlYXJuaW5nJTJDUHJlZGljdGlvbg==" data-listing-date-sort="1630213200000" data-listing-file-modified-sort="1759099754804" data-listing-date-modified-sort="NaN" data-listing-reading-time-sort="18" data-listing-word-count-sort="3538">
 <div class="thumbnail"><a href="./posts/20210829-open-blackbox-tidy/open-blackbox-tidy.html" class="no-external">
 
 <p class="card-img-top"><img src="posts\20210829-open-blackbox-tidy\images\shapley-instance.png" alt="Apartment price predicted by square footage, floor number, whether there are nearby parks, and whether cats are banned"  class="thumbnail-image card-img"/></p>
